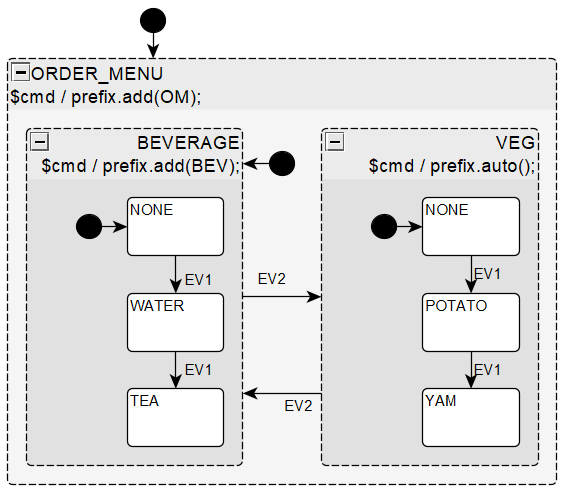
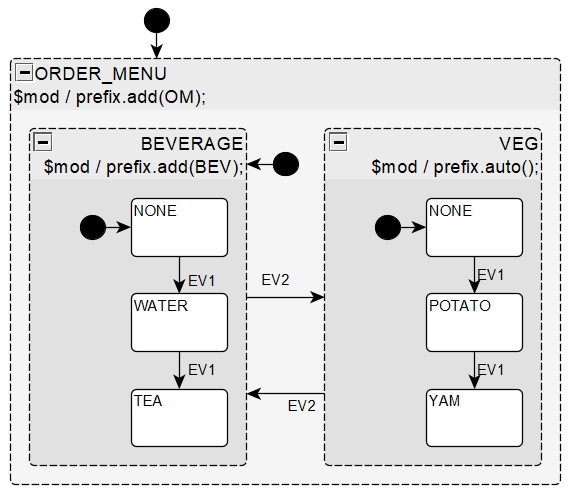
Renamed `$cmd` to `$mod` to better reflect the intent

diff --git a/src/StateSmithTest/PrefixingModderTests.cs b/src/StateSmithTest/PrefixingModderTests.cs
@@ -29,11 +29,11 @@ namespace StateSmithTest
         public void WithoutPrefix()
         {
             // the below shouldn't match. No prefixing expected
-            mainMenu.AddBehavior(new Behavior(trigger: "cmd", actionCode: "prefix.auto()"));
-            mainMenu.AddBehavior(new Behavior(trigger: "cmd", actionCode: "$prefix.auto()"));
-            mainMenu.AddBehavior(new Behavior(trigger: "$cmdd", actionCode: "prefix.auto()"));
-            mainMenu.AddBehavior(new Behavior(trigger: "$cmd", actionCode: "my_prefix.auto()"));
-            mainMenu.AddBehavior(new Behavior(trigger: "$cmd", actionCode: "prefix_add(blah)"));
+            mainMenu.AddBehavior(new Behavior(trigger: "mod", actionCode: "prefix.auto()"));
+            mainMenu.AddBehavior(new Behavior(trigger: "mod", actionCode: "$prefix.auto()"));
+            mainMenu.AddBehavior(new Behavior(trigger: "$modd", actionCode: "prefix.auto()"));
+            mainMenu.AddBehavior(new Behavior(trigger: "$mod", actionCode: "my_prefix.auto()"));
+            mainMenu.AddBehavior(new Behavior(trigger: "$mod", actionCode: "prefix_add(blah)"));
 
             prefixingModder.Visit(sm);
             mmSelectBeverage.Name.Should().Be("SELECT_BEVERAGE");
@@ -49,9 +49,9 @@ namespace StateSmithTest
         [Fact]
         public void AutoAddSetPrefix()
         {
-            mainMenu.AddBehavior(new Behavior(trigger:"$cmd", actionCode: "prefix.auto()"));
-            mmSelectBeverage.AddBehavior(new Behavior(trigger: "$cmd", actionCode: "prefix.add(BEV)"));
-            mmFood.AddBehavior(new Behavior(trigger: "$cmd", actionCode: "prefix.set( SEL_FOOD )"));
+            mainMenu.AddBehavior(new Behavior(trigger:"$mod", actionCode: "prefix.auto()"));
+            mmSelectBeverage.AddBehavior(new Behavior(trigger: "$mod", actionCode: "prefix.add(BEV)"));
+            mmFood.AddBehavior(new Behavior(trigger: "$mod", actionCode: "prefix.set( SEL_FOOD )"));
 
             prefixingModder.Visit(sm);
 

diff --git a/src/StateSmithTest/TriggerModHelper_Tests.cs b/src/StateSmithTest/TriggerModHelper_Tests.cs
@@ -11,7 +11,7 @@ using Xunit;
 
 namespace StateSmithTest;
 
-public class TriggerCommandHelper_Tests
+public class TriggerModHelper_Tests
 {
     [Fact]
     public void ExampleSimpleLogHelper()
@@ -24,7 +24,7 @@ public class TriggerCommandHelper_Tests
 
                 sm.VisitTypeRecursively<NamedVertex>((namedVertex) =>
                 {
-                    if (TriggerCommandHelper.PopCommandBehaviors(namedVertex, regex).Any())
+                    if (TriggerModHelper.PopModBehaviors(namedVertex, regex).Any())
                     {
                         namedVertex.AddEnterAction($"log(\"Entered {namedVertex.Name}.\");");
                         namedVertex.AddExitAction($"log(\"Exited {namedVertex.Name}.\");");
@@ -35,7 +35,8 @@ public class TriggerCommandHelper_Tests
         inputSmBuilder.ConvertPlantUmlTextNodesToVertices(@"
             @startuml SomeSmName
             [*] --> MY_STATE_1
-            MY_STATE_1 : $cmd / $log();
+            MY_STATE_1 : $mod / $log();
+            MY_STATE_1 : do / stuff();
             @enduml
         ");
 
@@ -47,6 +48,7 @@ public class TriggerCommandHelper_Tests
         myState1.Behaviors.Should().BeEquivalentTo(new List<Behavior>() {
             Behavior.NewEnterBehavior("log(\"Entered MY_STATE_1.\");"),
             Behavior.NewExitBehavior("log(\"Exited MY_STATE_1.\");"),
+            new Behavior(trigger:"do", actionCode: "stuff();"),
         }, behaviorMatcher);
     }
 }

diff --git a/src/StateSmith/Runner/TriggerModHelper.cs b/src/StateSmith/Runner/TriggerModHelper.cs
@@ -8,18 +8,21 @@ using System.Text.RegularExpressions;
 
 namespace StateSmith.Runner;
 
-public class TriggerCommandHelper
+/// <summary>
+/// Experimental status. Can be used, but API may change.
+/// </summary>
+public class TriggerModHelper
 {
-    public static IEnumerable<Behavior> GetCommandBehaviors(Vertex v)
+    public static IEnumerable<Behavior> GetModBehaviors(Vertex v)
     {
-        return v.GetBehaviorsWithTrigger("$cmd");
+        return v.GetBehaviorsWithTrigger("$mod");
     }
 
-    private static List<Behavior> GetCommandBehaviors(Vertex v, Regex matcher)
+    public static List<Behavior> GetModBehaviors(Vertex v, Regex matcher)
     {
         List<Behavior> result = new();
 
-        foreach (var b in GetCommandBehaviors(v))
+        foreach (var b in GetModBehaviors(v))
         {
             if (matcher.IsMatch(b.actionCode))
             {
@@ -30,7 +33,7 @@ public class TriggerCommandHelper
         return result;
     }
 
-    public static List<Match> PopCommandBehaviors(Vertex v, Regex matcher)
+    public static List<Match> PopModBehaviors(Vertex v, Regex matcher)
     {
         List<Match> result = new();
 

diff --git a/src/StateSmith/Runner/PrefixingModder.cs b/src/StateSmith/Runner/PrefixingModder.cs
@@ -52,7 +52,7 @@ public class PrefixingModder : OnlyVertexVisitor
 
     private static string GetPrefix(NamedVertex state, string prefix)
     {
-        foreach (var b in TriggerCommandHelper.GetCommandBehaviors(state))
+        foreach (var b in TriggerModHelper.GetModBehaviors(state))
         {
             string? newPrefix = MaybeGetPrefixFromBehavior(state, b, prefix);
 

diff --git a/CHANGELOG.md b/CHANGELOG.md
@@ -9,18 +9,19 @@ and this project adheres to [Semantic Versioning](https://semver.org/spec/v2.0.0
 ## WIP
 ### Fixed
 - draw.io - convert HTML breaks `<br>` to new line characters.
-- PrefixingModder - improve regex match accuracy
+- PrefixingModder - improve regex match accuracy.
 
 ### Added
 - allow defining render config in diagram
   - https://github.com/StateSmith/StateSmith/issues/23
 - Add `AutoExpandedVars` functionality to make it easier to add variables.
   - https://github.com/StateSmith/StateSmith/issues/91
-- Add `TriggerCommandHelper`
+- Add experimental `TriggerModHelper`.
 
 ### Minor changes (probably no one effected)
-- Renamed new class `DefaultSmTransformer` to `StandardSmTransformer`
+- Renamed new class `DefaultSmTransformer` to `StandardSmTransformer`.
 - Simplified transformer step registration.
+- Renamed `$cmd` to `$mod` to better reflect the intent. These are commands or directives to modify the state machine.
 
 ---
 

diff --git a/docs/diagram-features.md b/docs/diagram-features.md
@@ -394,7 +394,7 @@ One solution is to manually prefix all states as shown below. Nothing technicall
 
 ![picture 18](./images/prefixing-manual.png)  
 
-The below diagram uses special `$cmd` `prefix` methods to tell StateSmith how to prefix sub states.
+The below diagram uses special `$mod` `prefix` methods to tell StateSmith how to prefix sub states.
 
 ![picture 19](images/prefixing-cmd-1.png)  
 
